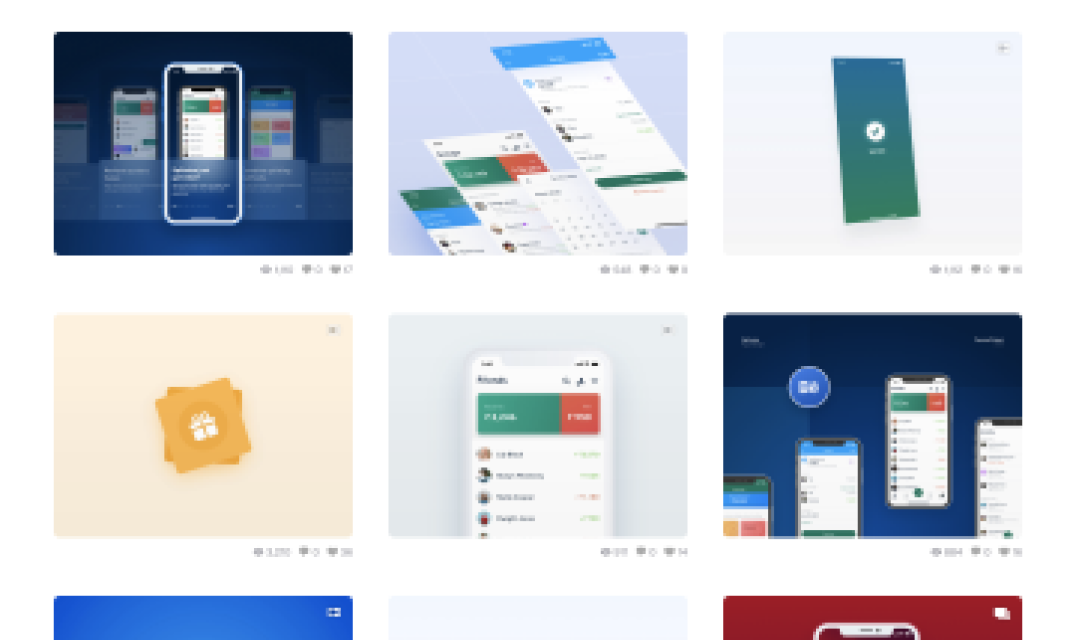
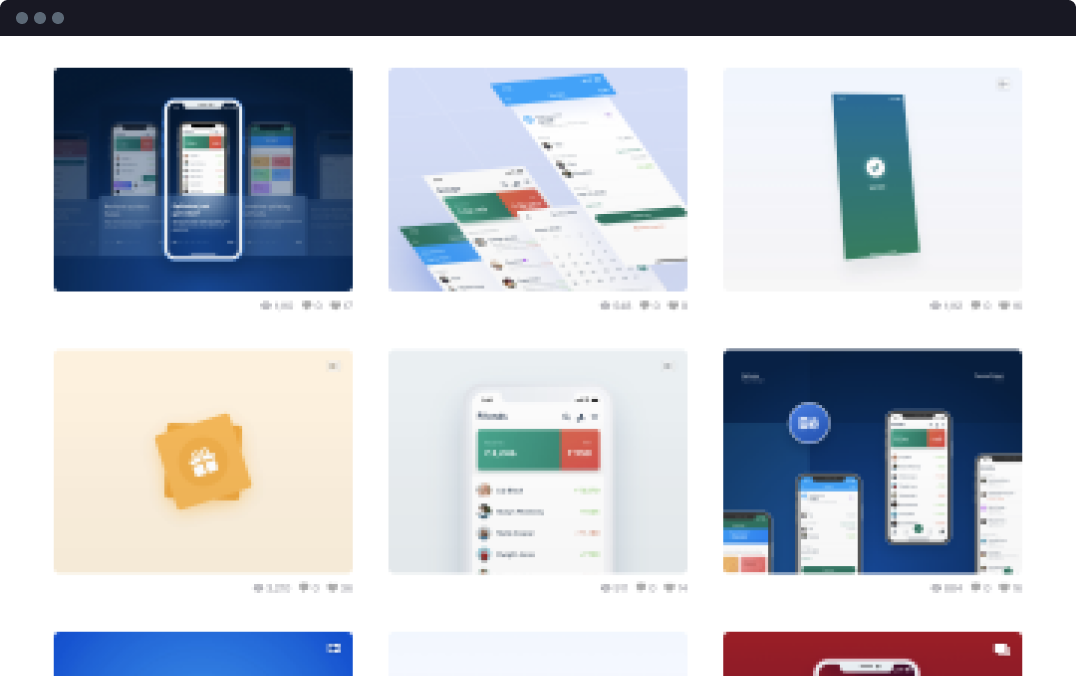
Add dribbble section

diff --git a/style.css b/style.css
@@ -56,6 +56,7 @@ a {
 }
 
 /* Link with the line like "More about me" in philosophy*/
+.link-with-line_white,
 .link-with-line {
   color: #181823;
   line-height: 1.5;
@@ -66,6 +67,7 @@ a {
 .link-with-line_white {
   color: inherit;
 }
+.link-with-line_white::before,
 .link-with-line::before {
   content: "";
   position: absolute;
@@ -113,7 +115,7 @@ a {
 }
 @media screen and (max-width: 767px) {
   .color-section__content {
-    padding: 48px 20px;
+    padding: 50px 20px;
   }
   .color-section {
     grid-template-columns: 1fr;
@@ -424,7 +426,6 @@ a {
 .projects__item:hover {
   transform: scale(0.99);
 }
-
 .card-projects__img img {
   display: block;
   width: 100%;
@@ -471,8 +472,41 @@ a {
     padding: 40px 20px;
   }
 }
+/* --------- Projects ----------------------------------------------- */
 
 .instagram {
   background-color: #fbe4ff;
   color: #181823;
 }
+/* --------- Instagram ----------------------------------------------- */
+
+.dribbble__container {
+  padding: 120px 182px;
+}
+.dribbble__text {
+  margin-bottom: 120px;
+}
+.dribbble__subtitle {
+  margin-bottom: 40px;
+  max-width: 636px;
+}
+.dribbble__image img {
+  width: 100%;
+  height: 100%;
+}
+@media screen and (max-width: 1439px) {
+  .dribbble__container {
+    padding: 100px 60px;
+  }
+}
+@media screen and (max-width: 1024px) {
+  .dribbble__container {
+    padding: 80px 40px;
+  }
+}
+@media screen and (max-width: 767px) {
+  .dribbble__container {
+    padding: 60px 20px;
+  }
+}
+/* --------- Dribbble ----------------------------------------------- */

diff --git a/index.html b/index.html
@@ -353,6 +353,25 @@
           </div>
         </div>
       </section>
+      <section class="dribbble">
+        <div class="_wrapper">
+          <div class="dribbble__container">
+            <div class="dribbble__text">
+              <h2 class="dribbble__title title-subtitle__t">Dribbble</h2>
+              <p class="dribbble__subtitle title-subtitle_s">
+                Each dribbble shot is made with love and care. Do check out my
+                work on Dribbble. Likes and comments are appreciated.
+              </p>
+              <a href="#!" class="link-with-line_white">
+                Follow me on Dribbble
+              </a>
+            </div>
+            <div class="dribbble__image">
+              <img src="./img/Dribbble.png" alt="Dribbble" />
+            </div>
+          </div>
+        </div>
+      </section>
     </main>
     <script src="./script.js"></script>
   </body>
